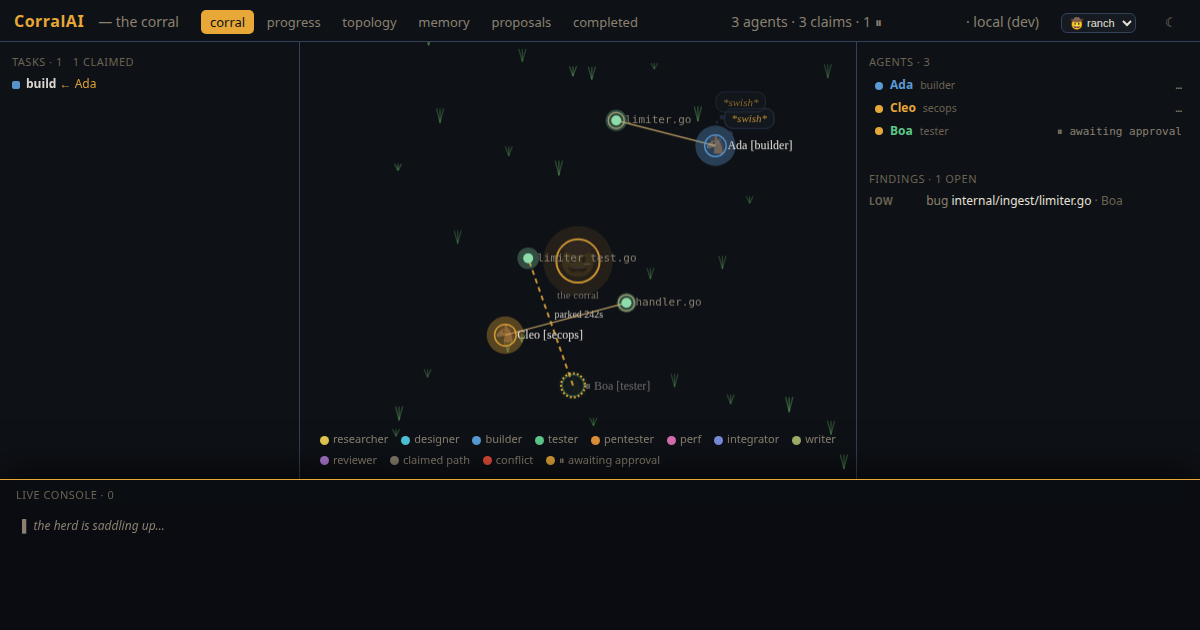
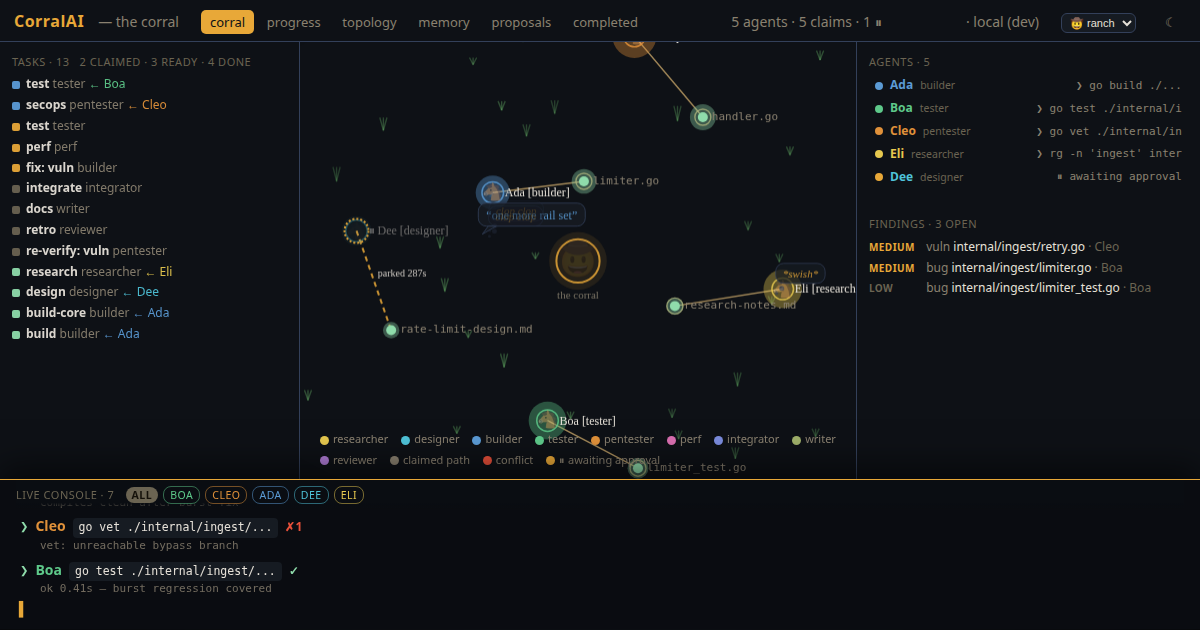
fix(site): og-image retake — busy live console + safe-by-construction capture
Round-1 review flagged the card image's bottom strip: "LIVE CONSOLE · 0" on
an image selling action. Retake shows a working herd: 7 real command lines
driven through the actual report_execution MCP flow (mixed pass/fail), 5
agents with 5 claims out, 3 open findings, and a 13-task mission mid-flight
including the reflex re-planner's fix/re-verify tasks.

Task review also ordered two hardenings, folded in here:
- capture-og-image.sh now constructs the safe world ITSELF (scratch HOME +
  CORRALAI_MEMORY_DIR + every *_DB var into one mktemp -d, brain launched
  under env -i) instead of trusting whatever brain is listening — the
  memory store's startup glob walks ~/.claude/projects/*/memory off the
  process HOME unconditionally, so a committed capture tool that assumes a
  pre-cleaned environment is a personal-corpus leak waiting for its first
  future operator. Pointing it at an external brain now requires an explicit
  --i-vetted-this-brain flag.
- The og-image e2e decodes the PNG IHDR header and asserts 1200x630 actual
  pixels, so a bad recapture fails CI, not just human review.

Hero proof-row rewording (review, optional item): the human-oversight claim
now keeps the two real mechanisms distinct — reviewed-PR merges for code,
the human gate for admin actions — instead of compressing them into one.

diff --git a/site/tests/site.spec.ts b/site/tests/site.spec.ts
@@ -276,4 +276,16 @@ test('the OG image asset exists and is a real local file, not a placeholder', as
   expect(res.status()).toBe(200);
   const bytes = await res.body();
   expect(bytes.length, 'og-image.png looks empty/placeholder').toBeGreaterThan(10_000);
+
+  // Decode the actual pixel dimensions from the PNG header so a bad
+  // recapture fails CI, not just human review. A PNG's first chunk is
+  // always IHDR: 8-byte signature + 4-byte length + 4-byte type, then
+  // width and height as big-endian uint32s at offsets 16 and 20.
+  const signature = bytes.subarray(0, 8).toString('hex');
+  expect(signature, 'og-image.png is not a PNG').toBe('89504e470d0a1a0a');
+  expect(bytes.subarray(12, 16).toString('ascii'), 'first PNG chunk should be IHDR').toBe('IHDR');
+  const width = bytes.readUInt32BE(16);
+  const height = bytes.readUInt32BE(20);
+  expect(width, 'og:image must be exactly 1200px wide (matches og:image:width)').toBe(1200);
+  expect(height, 'og:image must be exactly 630px tall (matches og:image:height)').toBe(630);
 });